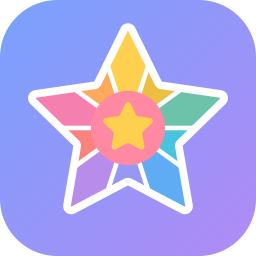
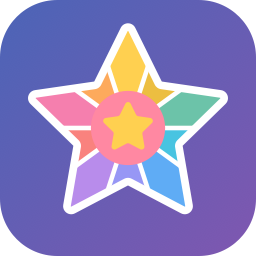
update

diff --git a/privacy.html b/privacy.html
@@ -16,8 +16,8 @@
     --ink: #3B3B4F;
     --brand-ink: #21263D;
     --brand-subtle: #737A94;
-    --grad-start: #668CFC;
-    --grad-end: #A170F2;
+    --grad-start: #3B4EA8;
+    --grad-end: #6B3FA0;
     --backdrop-top: #EDF5FF;
     --backdrop-bottom: #F0E9FF;
     --blue: #4F8CF7;

diff --git a/index.html b/index.html
@@ -21,8 +21,8 @@
     --ink: #3B3B4F;
     --brand-ink: #21263D;
     --brand-subtle: #737A94;
-    --grad-start: #668CFC;
-    --grad-end: #A170F2;
+    --grad-start: #3B4EA8;
+    --grad-end: #6B3FA0;
     --blue: #4F8CF7;
     --pink: #F0669E;
     --purple: #9470F0;

diff --git a/support.html b/support.html
@@ -17,8 +17,8 @@
     --ink: #3B3B4F;
     --brand-ink: #21263D;
     --brand-subtle: #737A94;
-    --grad-start: #668CFC;
-    --grad-end: #A170F2;
+    --grad-start: #3B4EA8;
+    --grad-end: #6B3FA0;
     --blue: #4F8CF7;
     --pink: #F0669E;
     --purple: #9470F0;
